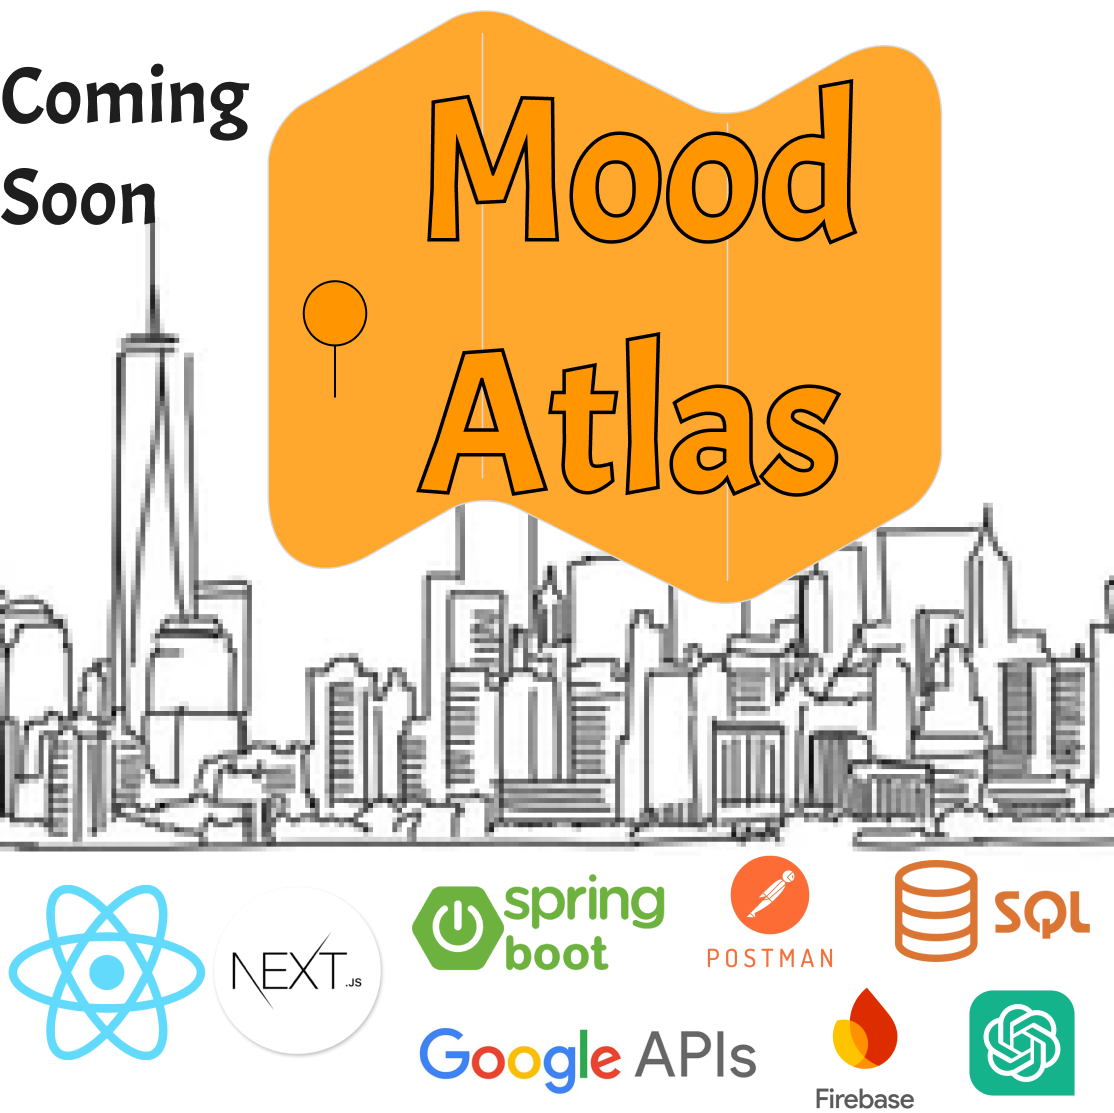
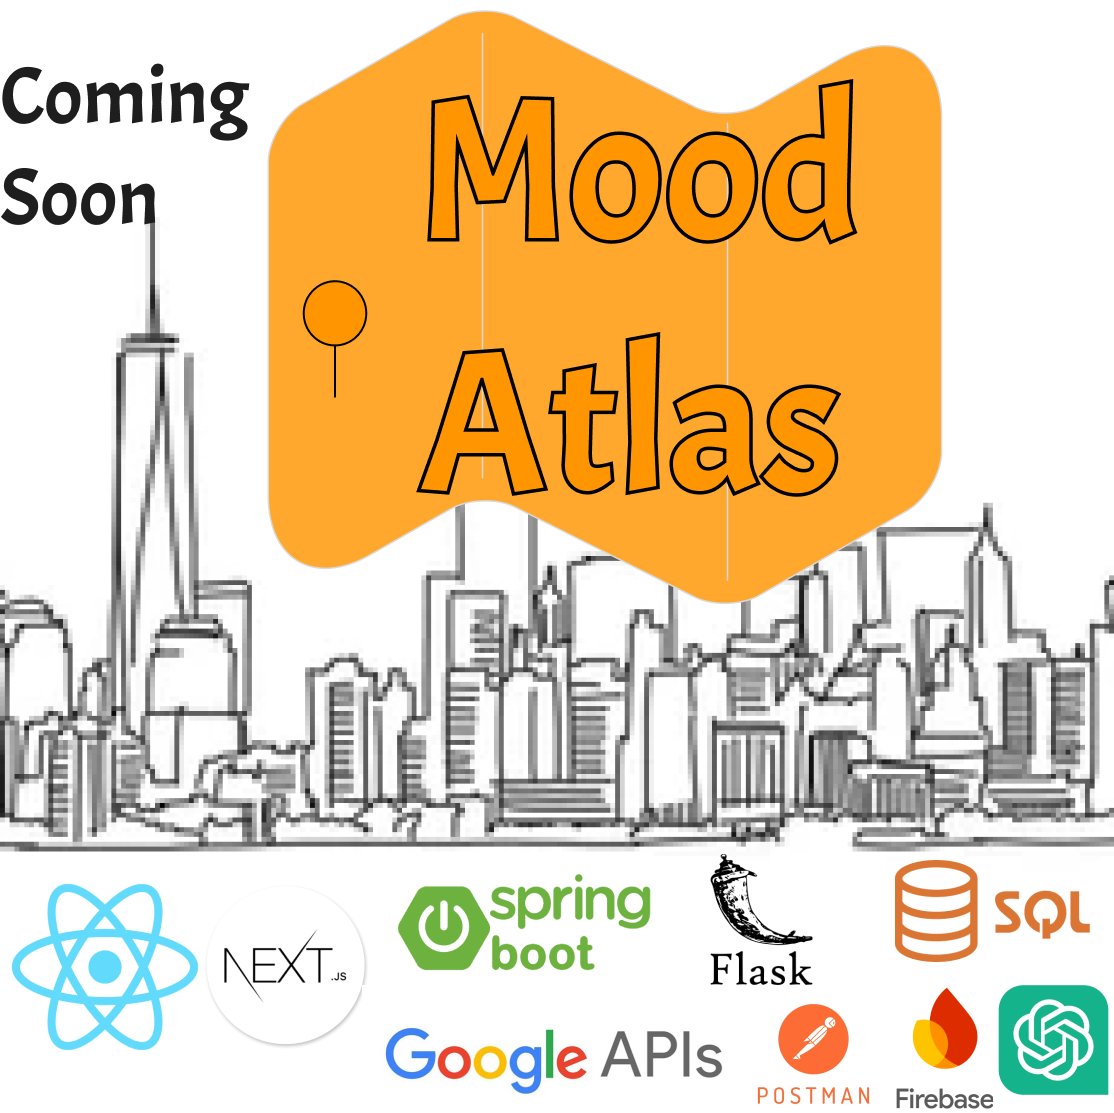
proj update

diff --git a/index.html b/index.html
@@ -352,6 +352,17 @@
                 />
                 <div>
                   <h3>Node JS</h3>
+                  <p>Experienced</p>
+                </div>
+              </article>
+              <article>
+                <img
+                  src="./assets/checkmark.png"
+                  alt="Experience icon"
+                  class="icon"
+                />
+                <div>
+                  <h3>Flask</h3>
                   <p>Intermediate</p>
                 </div>
               </article>
